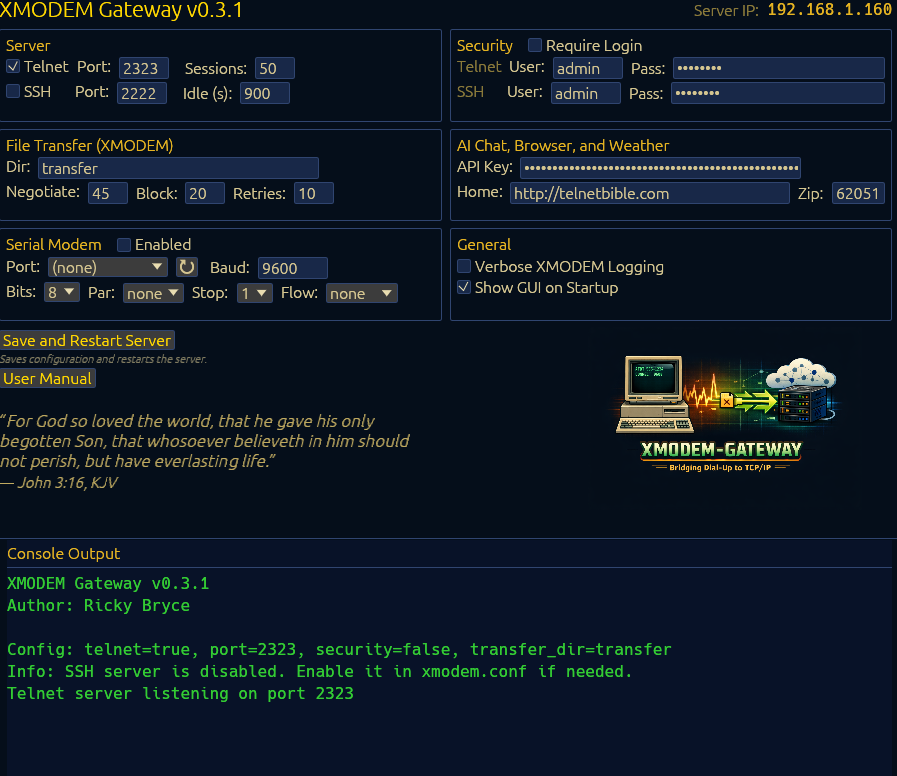
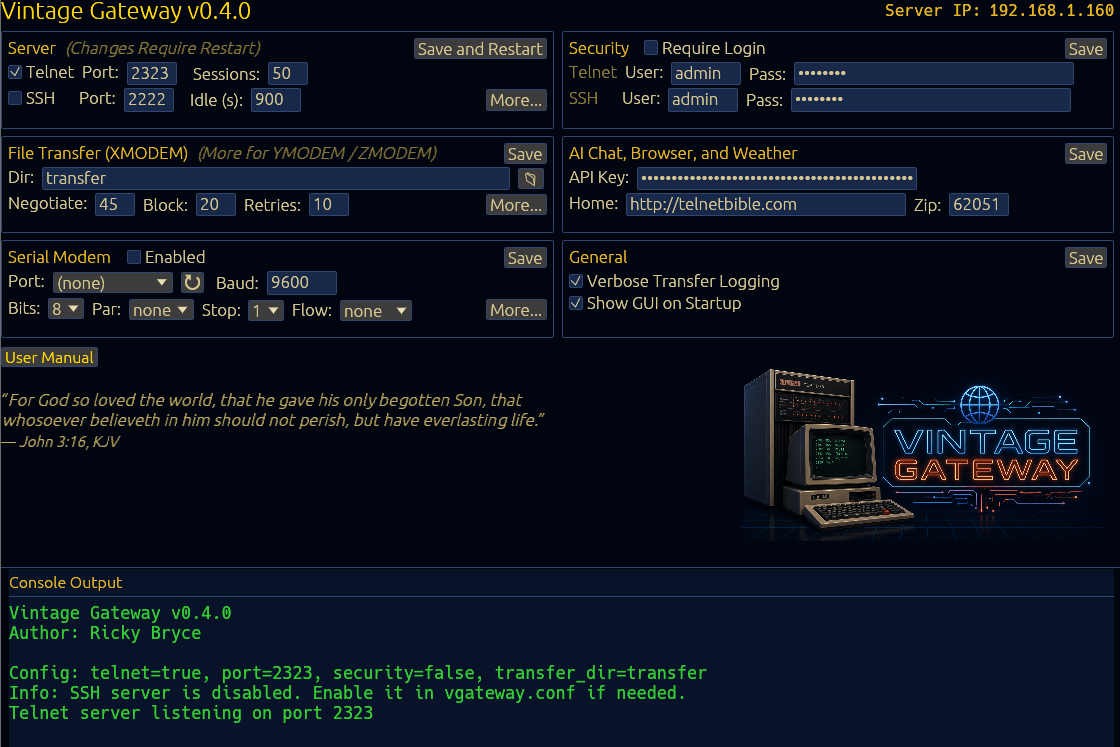
Updated README

Changed region(s): [[0.0, 0.0, 0.9989, 0.6466], [0.0, 0.7082, 0.7492, 0.9853], [0.6555, 0.4311, 0.9677, 0.739]]

diff --git a/index.html b/index.html
@@ -897,7 +897,7 @@ Config: telnet=true, port=2323, security=false, transfer_dir=transfer</span></co
                 <div class="instructions">
                     <h3>Public-Key Authentication</h3>
                     <ol>
-                        <li>On first outbound dial, the gateway auto-generates an Ed25519 client keypair and stores it as <code>xmodem_gateway_ssh_key</code> (0o600 on Unix)</li>
+                        <li>On first outbound dial, the gateway auto-generates an Ed25519 client keypair and stores it as <code>vintage_gateway_ssh_key</code> (0o600 on Unix)</li>
                         <li>From the SSH Gateway menu, press <strong>K</strong> &mdash; the public key is displayed in OpenSSH <code>ssh-ed25519 AAAA&hellip;</code> format</li>
                         <li>Copy that single line into the remote server's <code>~/.ssh/authorized_keys</code></li>
                         <li>Future dials to that host skip the password prompt entirely</li>
@@ -916,8 +916,8 @@ Config: telnet=true, port=2323, security=false, transfer_dir=transfer</span></co
                 <div class="callout callout-info">
                     <strong>Three SSH key files exist, do not confuse them:</strong>
                     <ul style="margin: 0.5em 0;">
-                        <li><code>xmodem_ssh_host_key</code> &mdash; this gateway's <em>own</em> SSH server host key (used when clients connect <em>to</em> us over SSH)</li>
-                        <li><code>xmodem_gateway_ssh_key</code> &mdash; this gateway's outgoing client keypair (used when we dial <em>out</em> to remote SSH servers)</li>
+                        <li><code>vintage_ssh_host_key</code> &mdash; this gateway's <em>own</em> SSH server host key (used when clients connect <em>to</em> us over SSH)</li>
+                        <li><code>vintage_gateway_ssh_key</code> &mdash; this gateway's outgoing client keypair (used when we dial <em>out</em> to remote SSH servers)</li>
                         <li><code>gateway_hosts</code> &mdash; trusted remote-server fingerprints (analogous to OpenSSH's <code>known_hosts</code>)</li>
                     </ul>
                 </div>
@@ -1265,7 +1265,7 @@ zmodem_negotiation_retry_interval = 5</span></code></pre>
                     <tr><th>Detail</th><th>Value</th></tr>
                     <tr><td>Default port</td><td>2222</td></tr>
                     <tr><td>Host key algorithm</td><td>Ed25519</td></tr>
-                    <tr><td>Host key file</td><td><code>xmodem_ssh_host_key</code></td></tr>
+                    <tr><td>Host key file</td><td><code>vintage_ssh_host_key</code></td></tr>
                     <tr><td>Key format</td><td>OpenSSH</td></tr>
                     <tr><td>File permissions</td><td>0600 (Unix)</td></tr>
                     <tr><td>Authentication</td><td>Password only</td></tr>
@@ -1464,8 +1464,8 @@ zmodem_negotiation_retry_interval = 5</span></code></pre>
                 <div class="instructions">
                     <ul>
                         <li><code>vgateway.conf</code> &mdash; contains telnet/SSH passwords and the Groq API key</li>
-                        <li><code>xmodem_ssh_host_key</code> &mdash; the gateway's SSH server private host key</li>
-                        <li><code>xmodem_gateway_ssh_key</code> &mdash; the gateway's outgoing SSH client key</li>
+                        <li><code>vintage_ssh_host_key</code> &mdash; the gateway's SSH server private host key</li>
+                        <li><code>vintage_gateway_ssh_key</code> &mdash; the gateway's outgoing SSH client key</li>
                         <li><code>gateway_hosts</code> &mdash; remote-server host keys (privacy: reveals dial history)</li>
                         <li><code>dialup.conf</code> &mdash; phone-to-host mapping</li>
                     </ul>

diff --git a/README.md b/README.md
@@ -1,8 +1,8 @@
 # Vintage Gateway
 
-A telnet-based XMODEM file transfer server, SSH gateway, Hayes-compatible
-modem emulator for serial-attached retro hardware, text-mode web browser,
-and AI chat client written in Rust. Supports PETSCII (Commodore 64), ANSI,
+A telnet-based XMODEM/YMODEM/ZMODEM file transfer server, SSH gateway,
+Hayes-compatible modem emulator for serial-attached retro hardware,
+text-mode web browser, and AI chat client written in Rust. Supports PETSCII (Commodore 64), ANSI,
 and ASCII terminals. Designed for local network use with retro and modern
 terminal clients.
 
